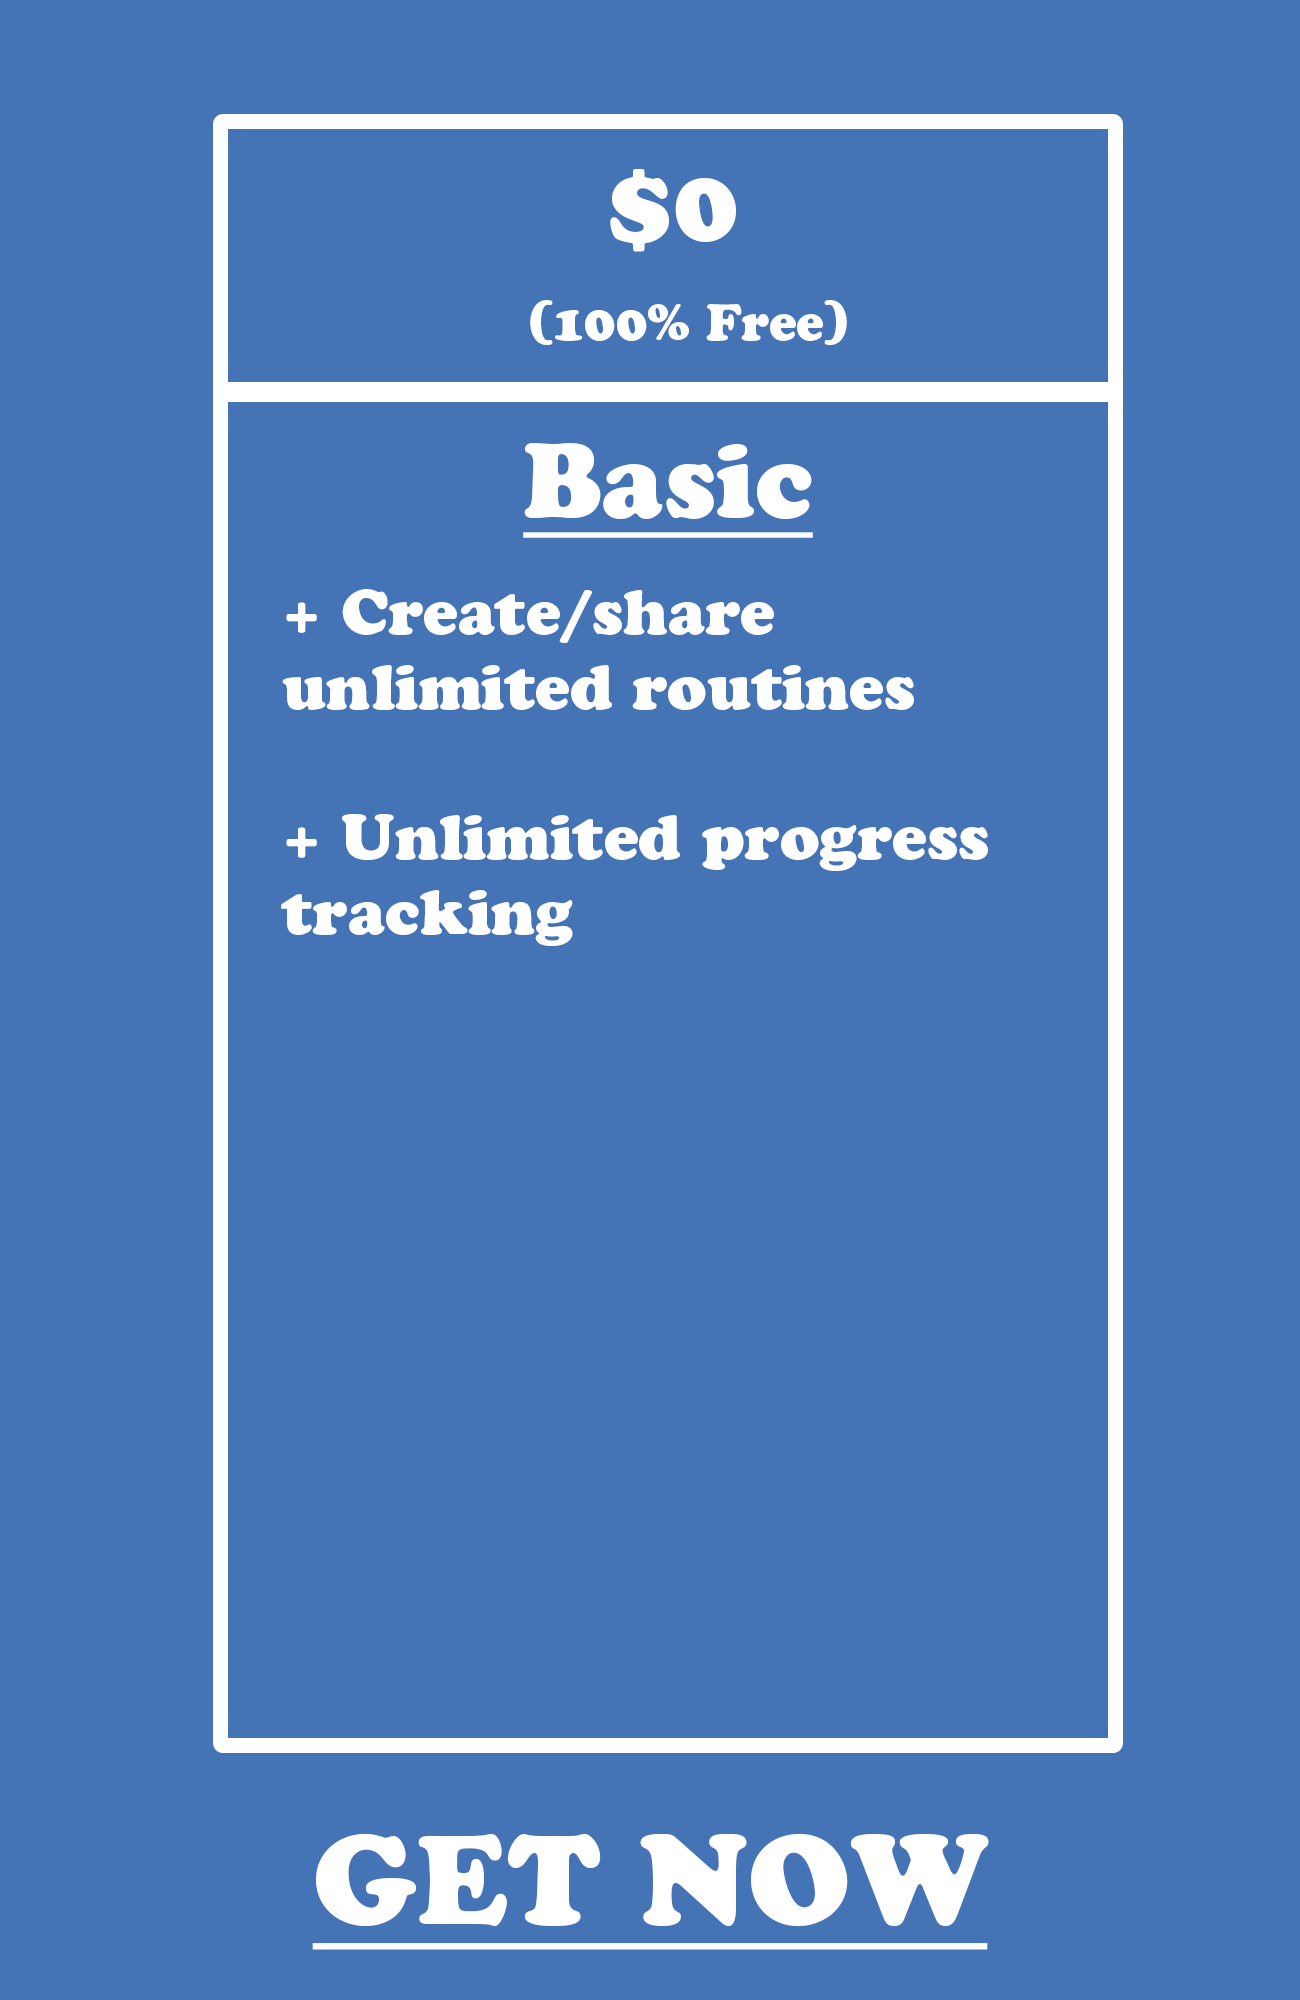
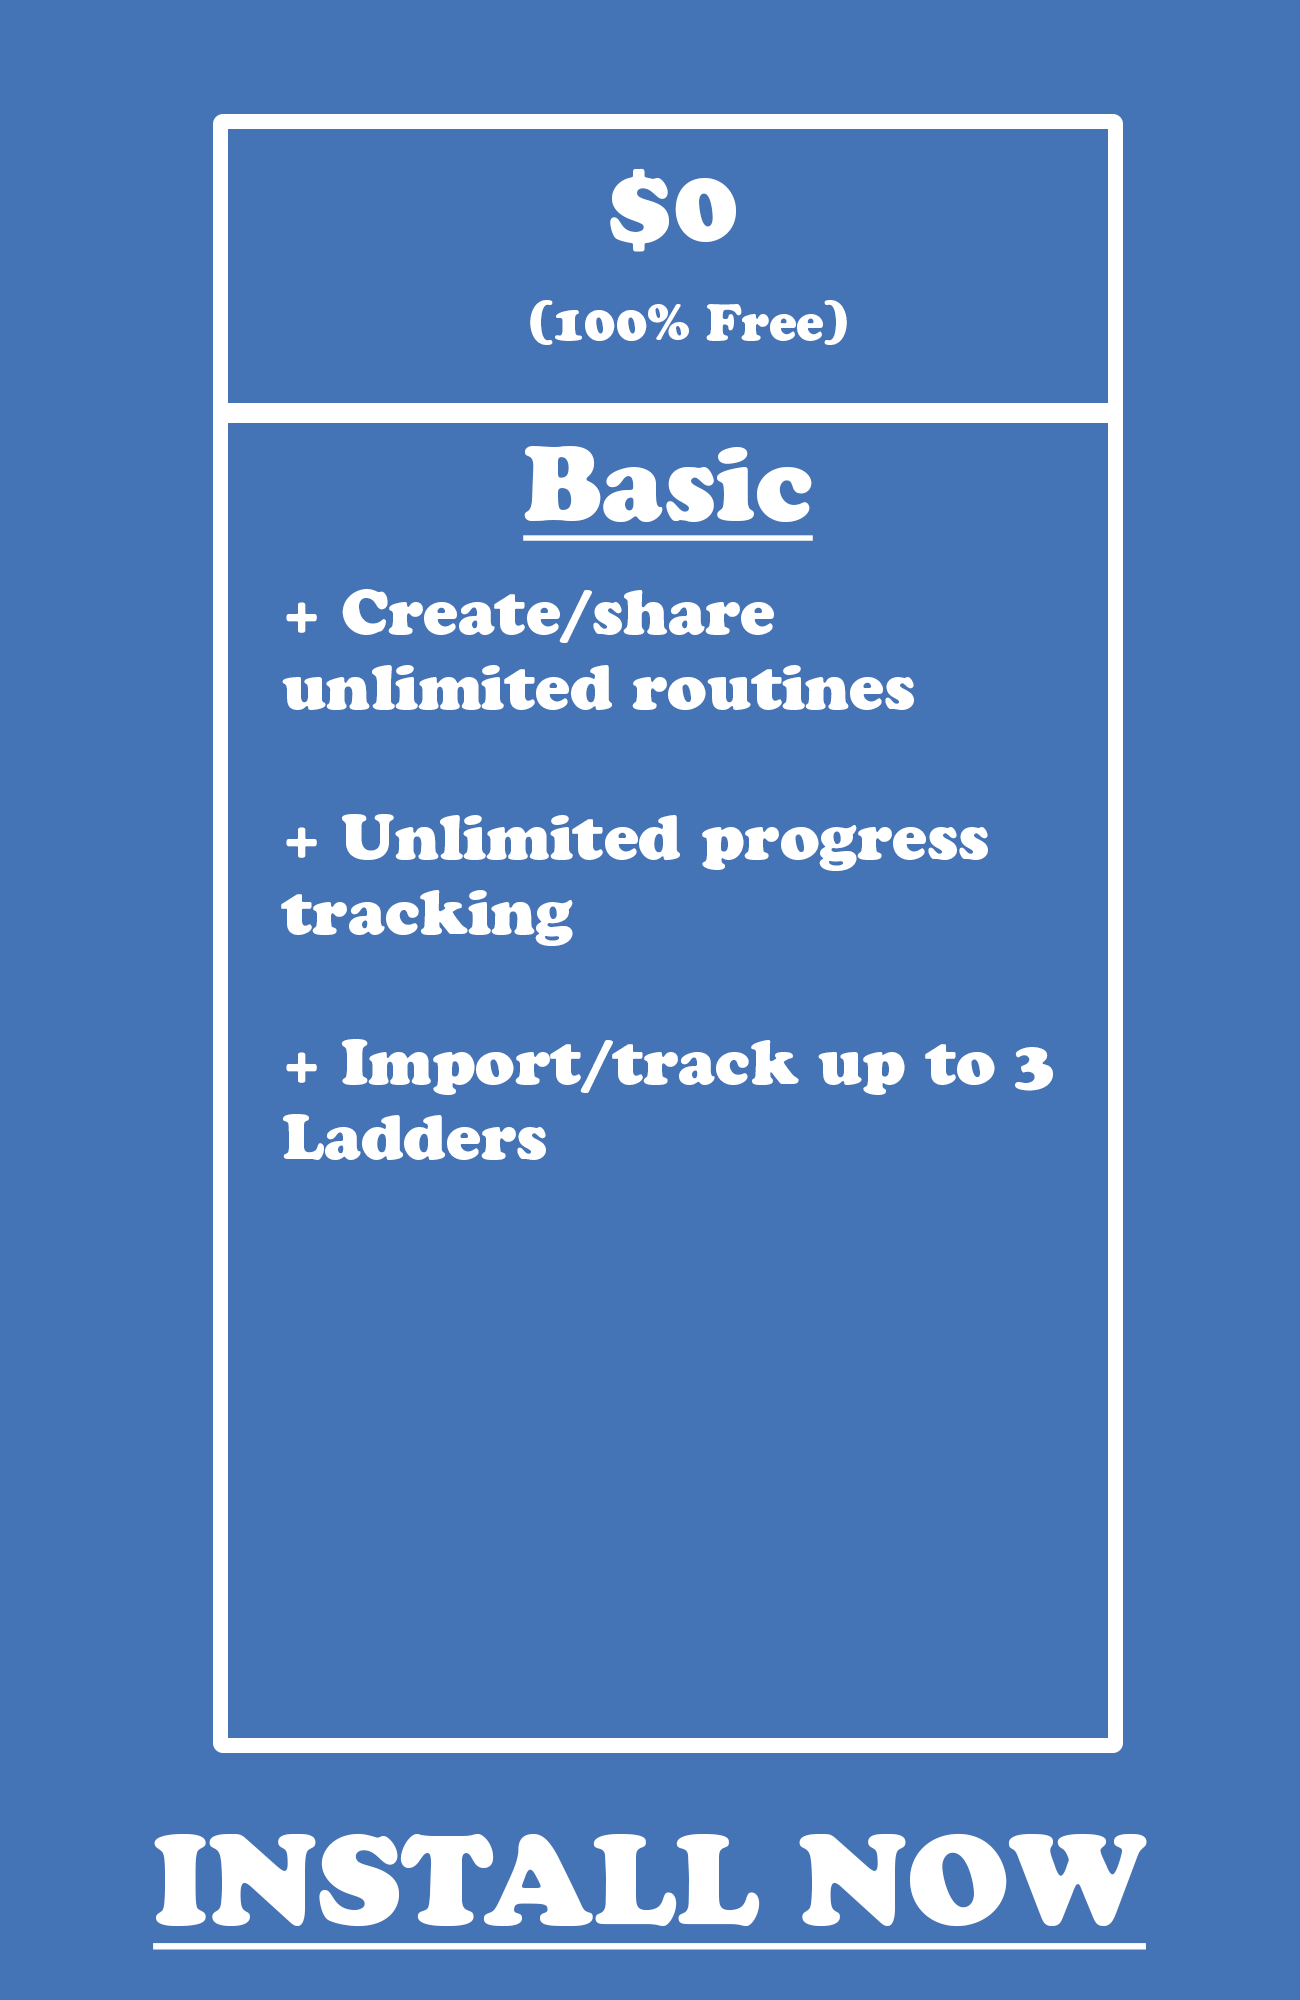
added basic

Changed region(s): [[0.1231, 0.899, 0.8923, 0.992], [0.1538, 0.186, 0.8615, 0.279], [0.2154, 0.496, 0.8308, 0.589]]

diff --git a/index.html b/index.html
@@ -144,6 +144,7 @@
     <div class="container">
       <div class="section-heading text-center" style="text-align:center;">
         <h2 style="color:white;">Pricing</h2>
+        <input type="image" src="img/BasicLanding.png" height="600" id="basic"  />
         <input type="image" src="img/ProLandingUpdate.png" height="600" id="pro"  />
         <!-- <img id="pro" src="img/ProLandingUpdate.png" height="600"> -->
       </div>
@@ -236,6 +237,24 @@
   <script>
     var modal = document.getElementById("myModal");
     var btn = document.getElementById("pro");
+    var span = document.getElementsByClassName("close")[0];
+
+    btn.onclick = function() {
+      modal.style.display = "block";
+    }
+
+    span.onclick = function() {
+      modal.style.display = "none";
+    }
+
+    window.onclick = function(event) {
+      if (event.target == modal) {
+        modal.style.display = "none";
+      }
+    }
+
+    var modal = document.getElementById("myModal");
+    var btn = document.getElementById("basic");
     var span = document.getElementsByClassName("close")[0];
 
     btn.onclick = function() {
